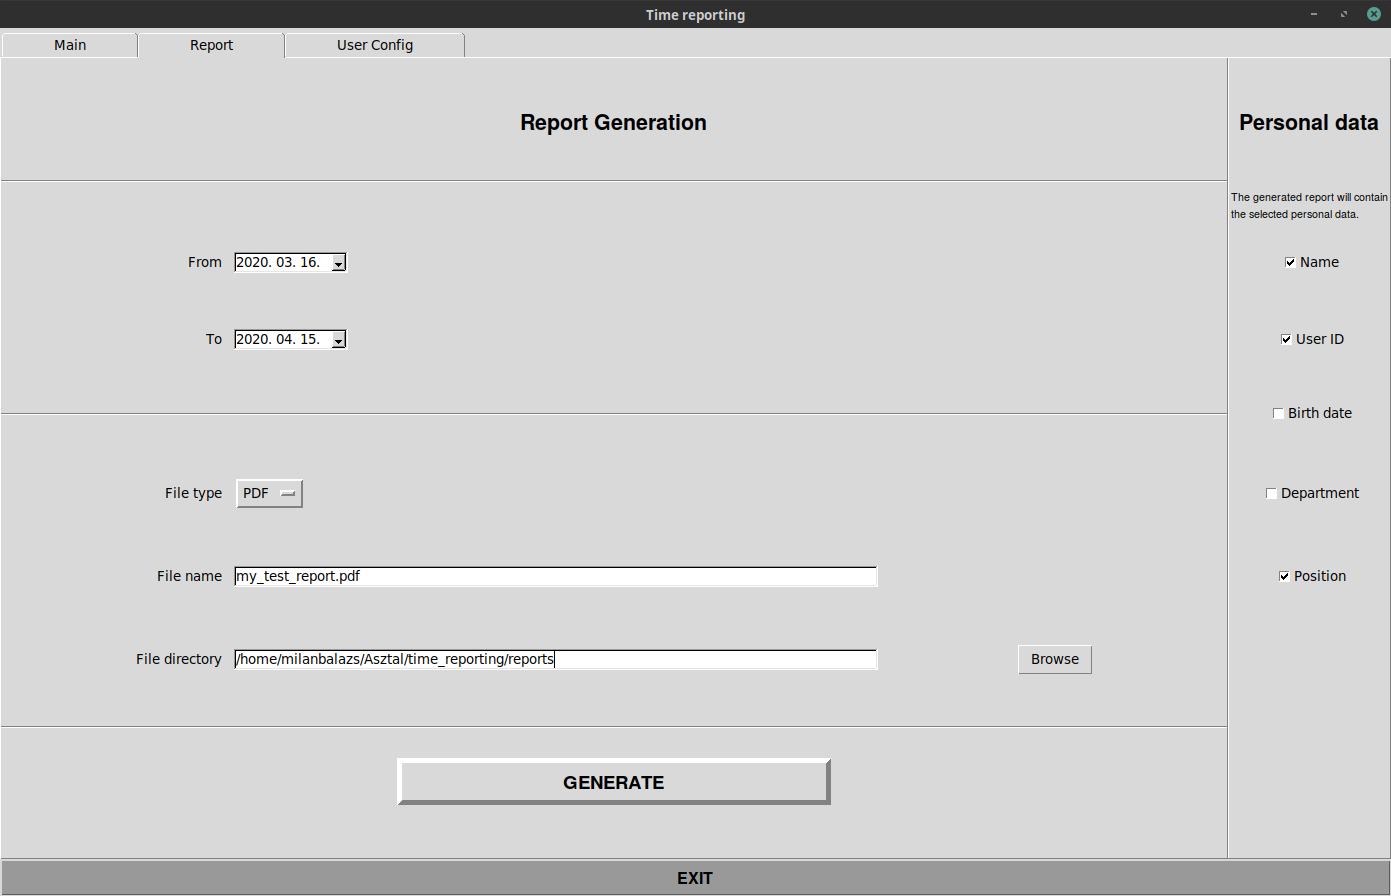
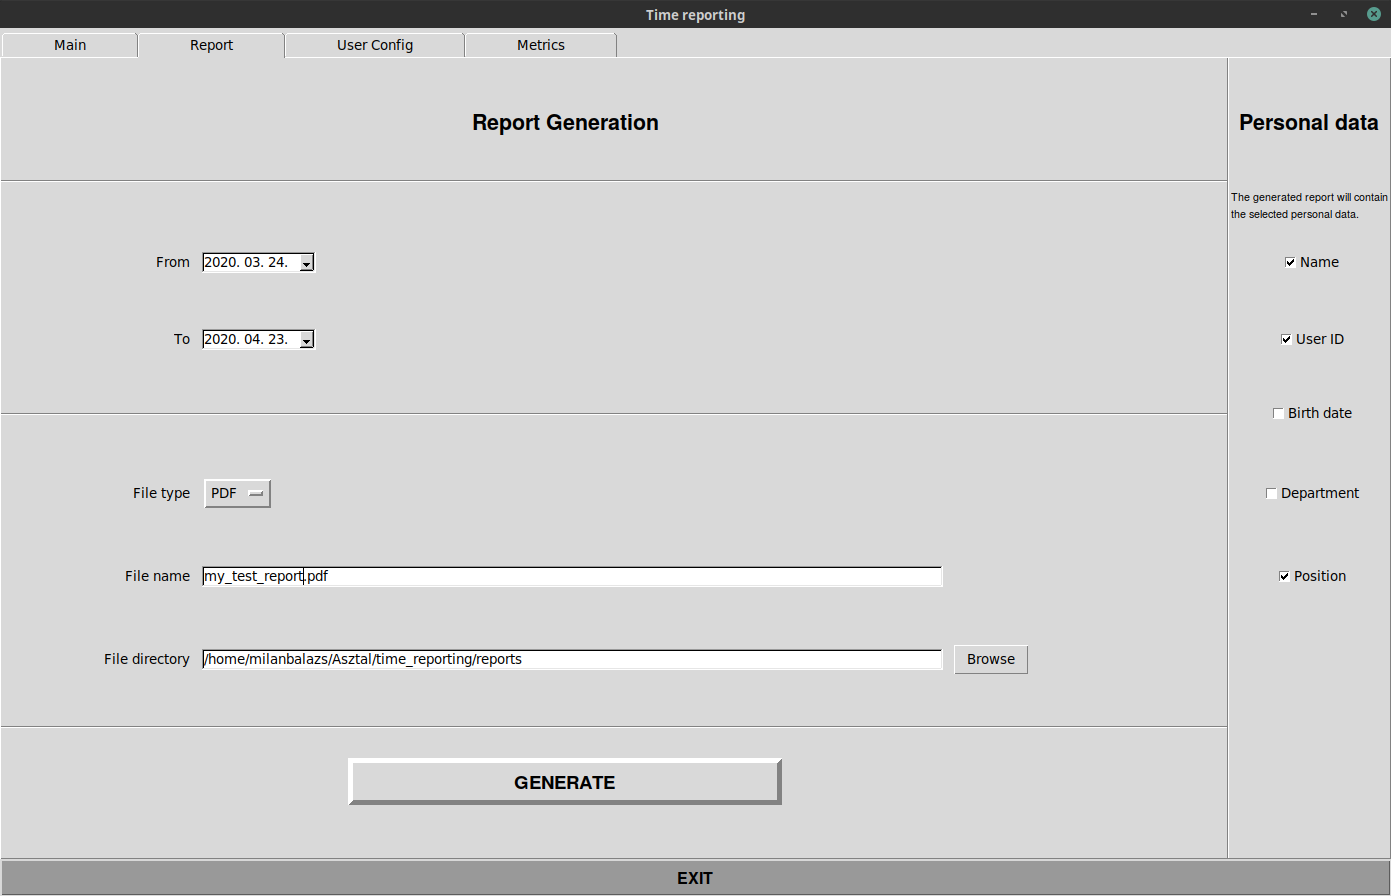
Update test data and README.MD

diff --git a/README.md b/README.md
@@ -9,6 +9,10 @@
 
 ![Main window example](imgs/main_window_example.png)
 
+## Graph settings:
+
+![Graph settings window example](imgs/graph_config_example.png)
+
 ## Report tab:
 
 ![Report window example](imgs/report_window_example.png)
@@ -17,14 +21,14 @@
 
 ![User window example](imgs/user_window_example.png)
 
-## Graph settings:
+## Metrics tab:
 
-![Report window example](imgs/graph_config_example.png)
+![Metrics window example](imgs/metrics_tab_example.png)
 
 ## Usage:
 
 ````
->>> python3 time_reporting.py
+>>> python3 time_reporting.py [--test]
 ````
 
 ## NOTE:
